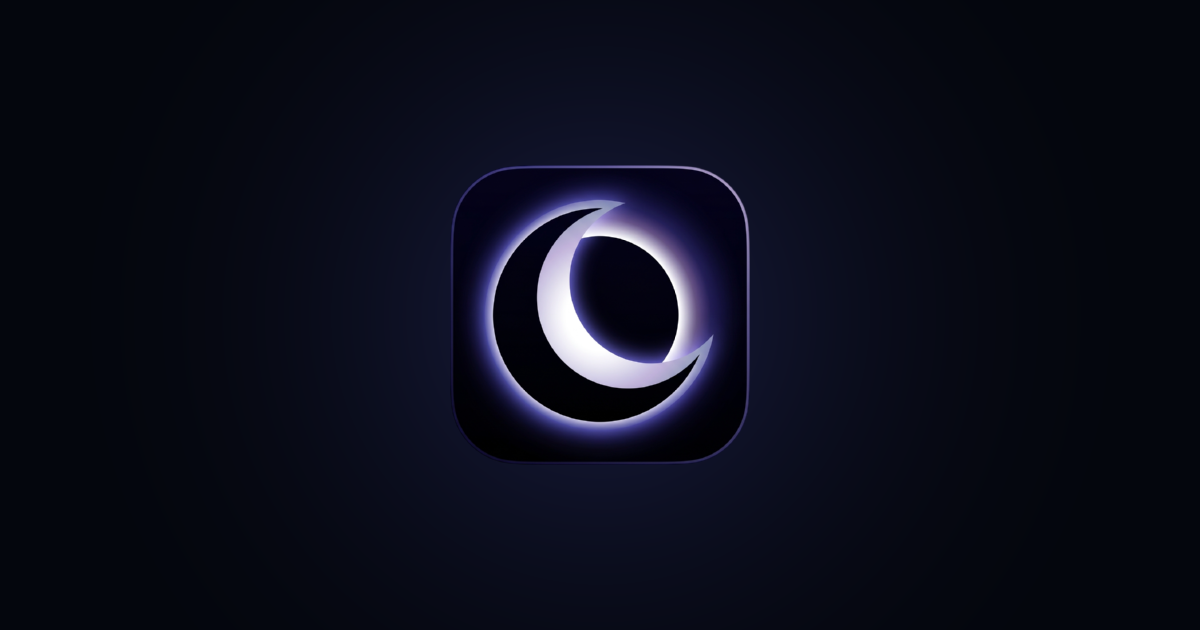
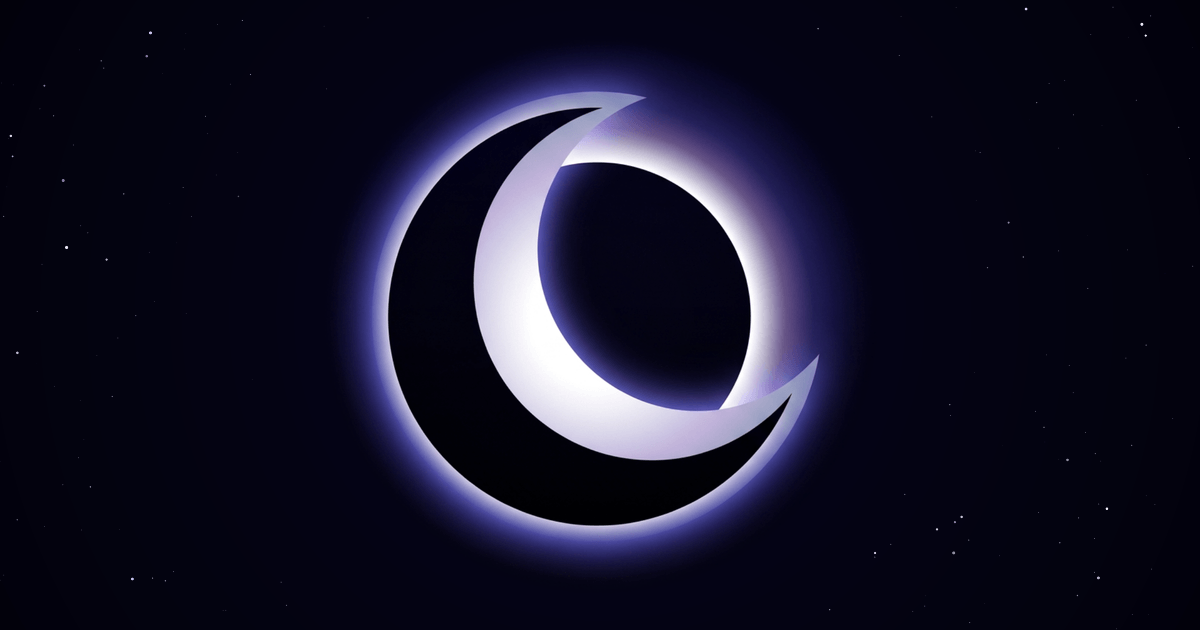
Give shared links a big, bold preview image
- The share card was the framed app icon floating small in the middle of a wide dark image, so WhatsApp's little square thumbnail showed a tiny logo in lots of empty space
- The new card puts the moon itself, large and centred, on a starry sky, so it reads at a glance whether an app shows it wide or crops it to a square
- It's also lighter: 102 KB, down from 153 KB
- The image URL now carries a version number, so apps that cache previews fetch the new one instead of reusing the old

Changed region(s): [[0.2775, 0.0905, 0.7092, 0.9048]]

diff --git a/index.html b/index.html
@@ -29,19 +29,21 @@
     <meta property="og:url" content="__SITE_URL__" />
     <meta property="og:site_name" content="Luna" />
     <!-- Open Graph requires an absolute URL; a relative one renders no card at all.
-         __SITE_URL__ is the address this build is published at (vite.config.js). -->
-    <meta property="og:image" content="__SITE_URL__og-card.png" />
+         __SITE_URL__ is the address this build is published at (vite.config.js).
+         Bump ?v= whenever the image changes: WhatsApp, Slack and others cache preview
+         images by URL for a long time and would keep showing the old one. -->
+    <meta property="og:image" content="__SITE_URL__og-card.png?v=2" />
     <meta property="og:image:type" content="image/png" />
     <meta property="og:image:width" content="1200" />
     <meta property="og:image:height" content="630" />
-    <meta property="og:image:alt" content="Luna, an interactive lunar ephemeris explorer" />
+    <meta property="og:image:alt" content="The Luna crescent moon glowing against a starry sky" />
     
     <!-- Twitter Cards -->
     <meta name="twitter:card" content="summary_large_image" />
     <meta name="twitter:title" content="Luna | Astronomical Lunar Ephemeris Explorer" />
     <meta name="twitter:description" content="An interactive 3D lunar cycle explorer and astronomical ephemeris tracker." />
-    <meta name="twitter:image" content="__SITE_URL__og-card.png" />
-    <meta name="twitter:image:alt" content="Luna, an interactive lunar ephemeris explorer" />
+    <meta name="twitter:image" content="__SITE_URL__og-card.png?v=2" />
+    <meta name="twitter:image:alt" content="The Luna crescent moon glowing against a starry sky" />
     
     <!-- Just the name: tabs, bookmarks and home-screen labels are narrow, and a long
          title only ever showed as "Luna | Astronomic...". Share cards keep the
